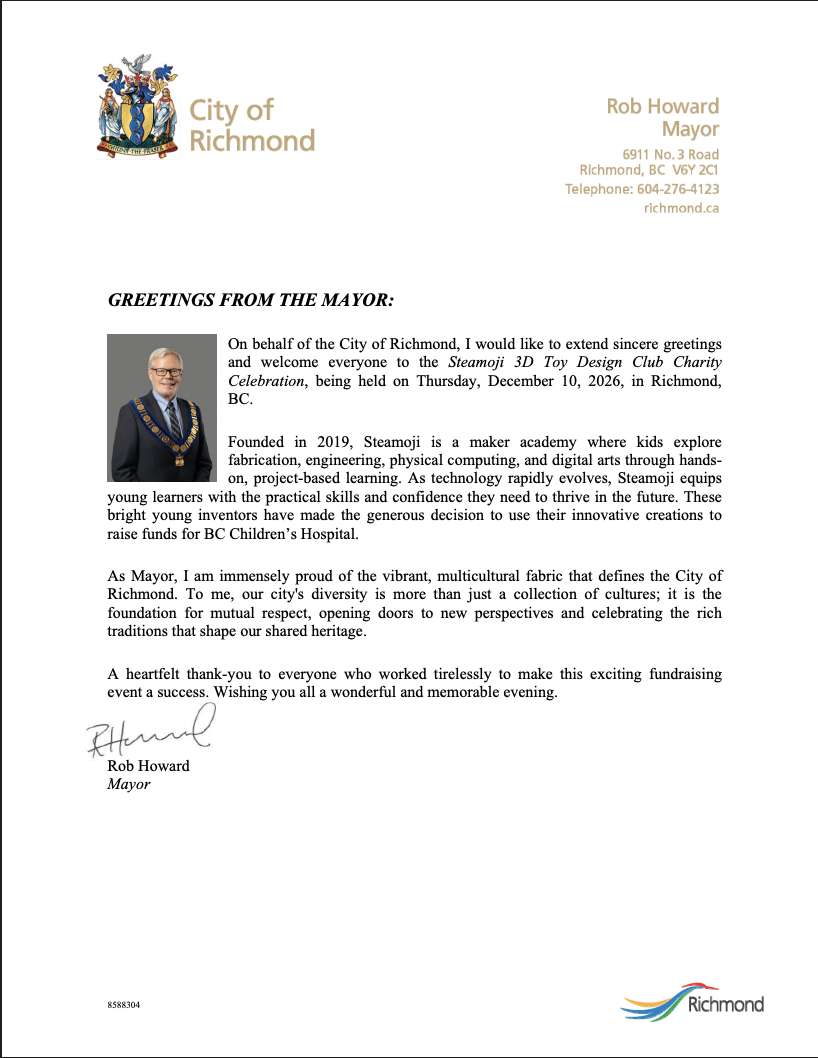
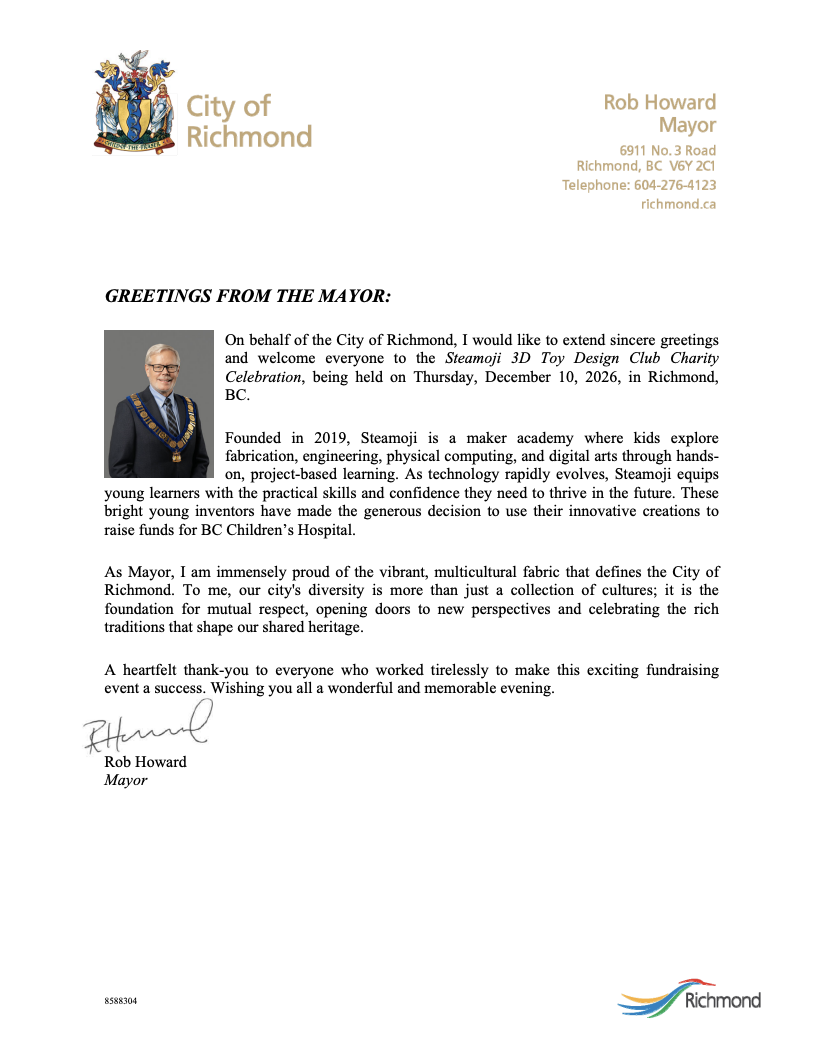
mayorletter2.1

diff --git a/styles.css b/styles.css
@@ -1702,7 +1702,7 @@ dialog > img {
   display: grid;
   grid-template-columns: repeat(auto-fit, minmax(260px, 1fr));
   gap: 1.5rem;
-  max-width: 780px; /* Keeps both letters compact so they fit side-by-side */
+  max-width: 860px;
   margin: 2rem auto 0;
 }
 
